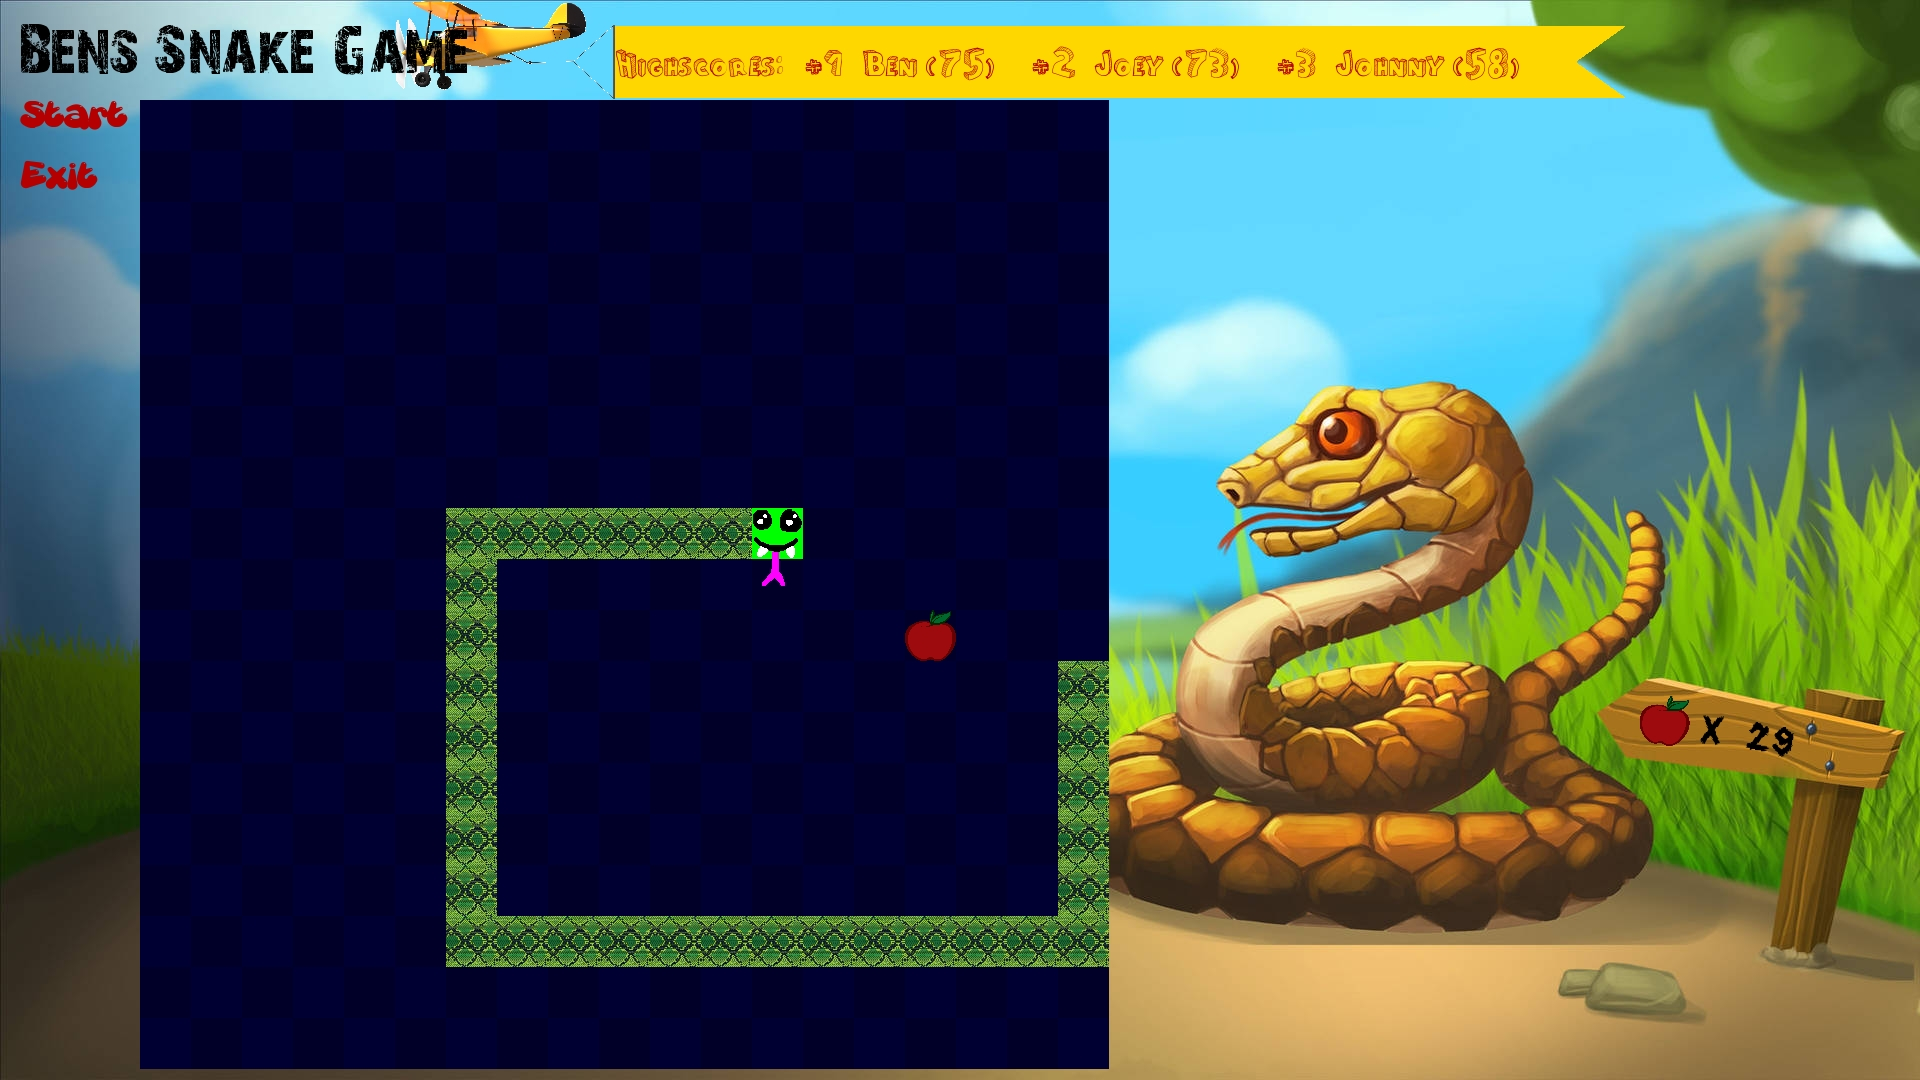
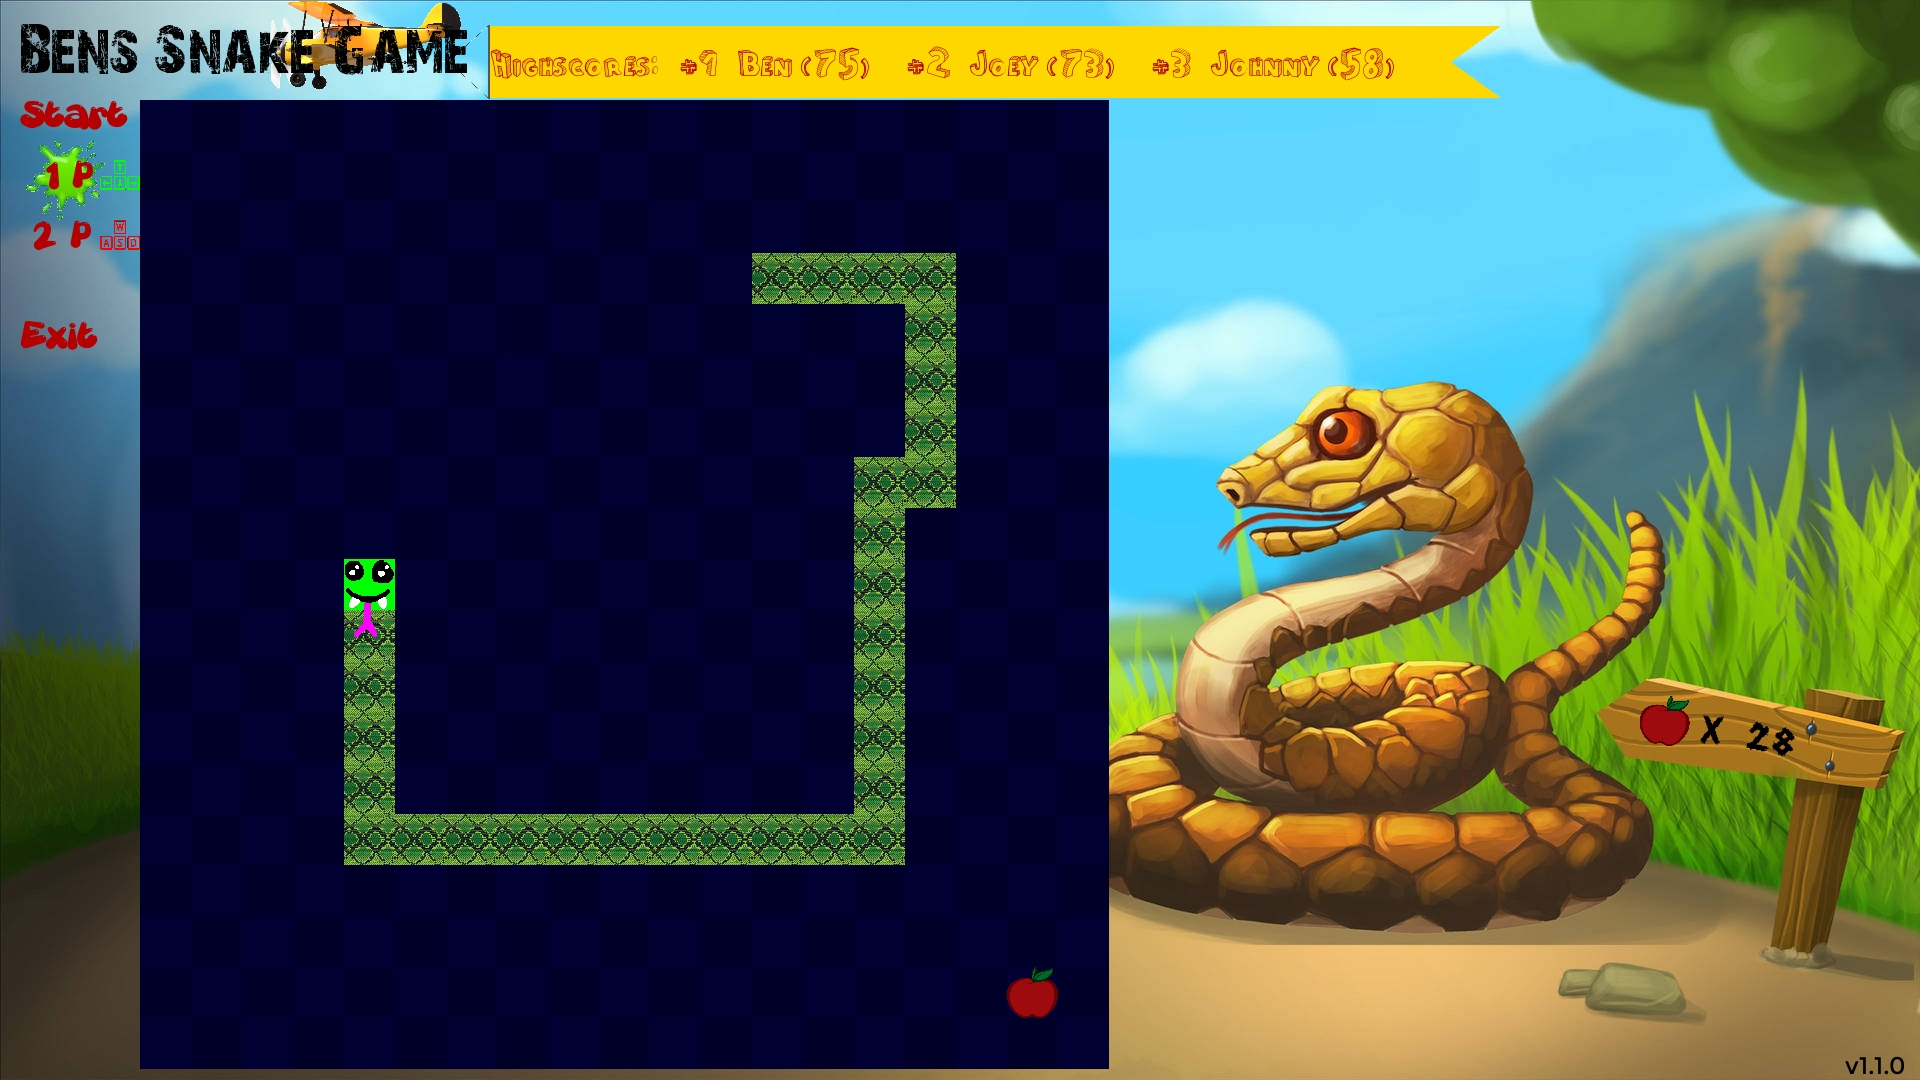
Set version to 1.1.0, Update readme and screenshot

diff --git a/src/version.hpp b/src/version.hpp
@@ -1,3 +1,3 @@
 #pragma once
 
-#define VERSION "v1.0.4"
+#define VERSION "v1.1.0"

diff --git a/README.md b/README.md
@@ -5,13 +5,26 @@
 This is a simple snake game made with C++ and SDL2.<br>
 The intention of this project is to try out the SDL2 library.
 
-Furthermore, this game provides funny textures, sounds and a highscore display.
+Furthermore, this game provides funny textures, sounds, a highscore display and a two player mode.
 
 ## How to play
+
+### One player mode
 
 The snake is controlled by the arrow buttons of the keyboard.
 
 The goal is to get as many apples as possible to reach a new highscore.
+
+The snake grows up for each eaten apple.
+
+### Two player mode
+
+Player one controls his snake by the arrow buttons of the keyboard.<br>
+Player two controls his snake by buttons WASD of the keyboard.
+
+You win if you keep your snake alive longer than your opponent.
+
+The snakes grow up per time.
 
 ## Requirements
 
